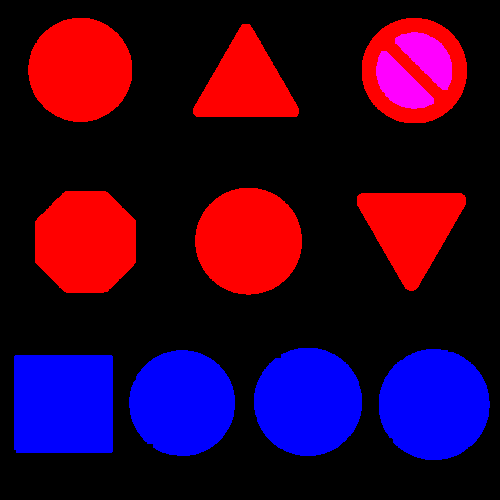
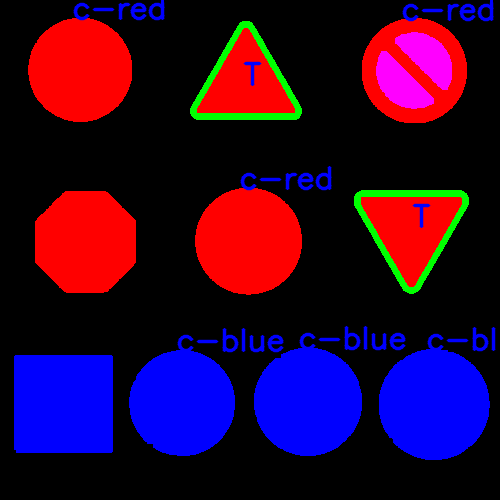
Change circles to poly

diff --git a/project1/src/detector.py b/project1/src/detector.py
@@ -34,10 +34,9 @@ class Detector:
         self.processedImg = temp.copy()
         self.print2(self.processedImg)
 
-    def detectCircles(self, color):
+    def detectHoughCircles(self, color):
         img = self.processedImg
         img = removeAllButOneColor(img,color)
-        print("isolating " + color)
         # self.print2(img)
         gray = cv2.cvtColor(img, cv2.COLOR_BGR2GRAY)
         low=np.array([1])
@@ -65,30 +64,50 @@ class Detector:
             self.detected["c-" + color] = circlesObj
         return circles, gray, centers
 
+    def detectCircles(self, color):
+        img = self.img
+        img = removeAllButOneColor(img,color)
+        gray = cv2.cvtColor(img, cv2.COLOR_BGR2GRAY)
+        ret, thresh = cv2.threshold(gray, 0, 255, 1)
+        contours, h = cv2.findContours(gray, cv2.RETR_EXTERNAL,	cv2.CHAIN_APPROX_SIMPLE)
+        circles = []
+        centers = []
+        for cnt in contours:
+            approx = cv2.approxPolyDP(cnt, 0.01*cv2.arcLength(cnt, True), True)
+            if len(approx) > 8:
+                print(approx[0][0])
+                centers.append((approx[0][0][0],approx[0][0][1]))
+                circles.append([cnt])
+        circlesObj = {
+            "info": circles,
+            "debugImg": gray,
+            "coordText": centers,
+            "text": "c-" + color
+        }
+        # print(trianglesObj)
+        self.detected["c-" + color] = circlesObj
+        return contours, gray, circles
+
+
     def detectTriangles(self, color):
         img = self.img
         img = removeAllButOneColor(img,color)
-        cv2.imshow("White", img)
         gray = cv2.cvtColor(img, cv2.COLOR_BGR2GRAY)
-        cv2.imshow("gray", gray)
-        # ret, thresh = cv2.threshold(gray, 127, 255, 1)
-        #cv2.imshow("thresh", thresh)
+        ret, thresh = cv2.threshold(gray, 0, 255, 1)
         contours, h = cv2.findContours(gray, cv2.RETR_EXTERNAL,	cv2.CHAIN_APPROX_SIMPLE)
         triangles = []
         centers = []
         for cnt in contours:
-            approx = cv2.approxPolyDP(cnt, 0.02*cv2.arcLength(cnt, True), True)
-            print("Shapes: " + str(len(approx)))
+            approx = cv2.approxPolyDP(cnt, 0.04*cv2.arcLength(cnt, True), True)
             if len(approx) == 3:
                 triangle = [(approx[0][0][0],approx[0][0][1]),
                             (approx[1][0][0],approx[1][0][1]),
                             (approx[2][0][0],approx[2][0][1])]
                 center = (int(round((triangle[0][0] + triangle[1][0] + triangle[2][0]) / 3)),
                           int(round((triangle[0][1] + triangle[1][1] + triangle[2][1]) / 3)))
-                if calcArea(triangle) > 0:
+                if calcArea(triangle) > 50:
                     centers.append(center)
-                    triangles.append(triangle)
-                    # triangles.append([cnt])
+                    triangles.append([cnt])
         trianglesObj = {
             "info": triangles,
             "debugImg": gray,

diff --git a/project1/src/printer.py b/project1/src/printer.py
@@ -7,35 +7,32 @@ from pytesseract import Output
 from signDetection import *
 from utils import *
 
-def drawCircles(img, circles):
-    if not(circles is None):
-        for i in circles[0,:]:
-            center = (i[0],i[1])
-            # draw the outer circle
-            cv2.circle(img,center,i[2],(0,255,0),2)
-            # draw the center of the circle
-            cv2.circle(img,center,2,(0,0,255),3)
-    return img
+# def drawCircles(img, circles):
+#     if not(circles is None):
+#         for i in circles[0,:]:
+#             center = (i[0],i[1])
+#             # draw the outer circle
+#             cv2.circle(img,center,i[2],(0,255,0),2)
+#             # draw the center of the circle
+#             cv2.circle(img,center,2,(0,0,255),3)
+#     return img
 
-def drawTriangles(img, triangles):
-    for triangle in triangles:
-        # cv2.drawContours(img, triangle, 0, (0, 255, 0), -1)
-        img = cv2.line(img, triangle[0], triangle[1], (0, 255, 0), 5)
-        img = cv2.line(img, triangle[0], triangle[2], (0, 255, 0), 5)
-        img = cv2.line(img, triangle[1], triangle[2], (0, 255, 0), 5)
-    return img
+# def drawTriangles(img, triangles):
+#     for triangle in triangles:
+#         cv2.drawContours(img, triangle, 0, (0, 255, 0), 6)
+#     return img
 
-def drawRectangles(img, rectangles):
-    for rectangle in rectangles:
-        cv2.drawContours(img, rectangles, 0, (255, 0, 0), -1)
-    return img
+# def drawRectangles(img, rectangles):
+#     for rectangle in rectangles:
+#         cv2.drawContours(img, rectangles, 0, (255, 0, 0), -1)
+#     return img
 
     # Print on top of 'img' all the labels in 'obj'
 def printLabels(img, obj):
     # Constants
     font = cv2.FONT_HERSHEY_SIMPLEX
     fontScale = 1
-    color = (255, 0, 0)
+    color = (0, 255, 0)
     thickness = 2
 
     # Personalized for each shape
@@ -47,12 +44,14 @@ def printLabels(img, obj):
 
 def printShapes(img, obj):
     text = obj["text"]
-    if text == "redC" or text == 'blueC':
-        img = drawCircles(img, obj["info"])
-    elif text == "T":
-        img = drawTriangles(img, obj["info"])
-    elif text == "R":
-        img = drawRectangles(img, obj["info"])
+    for sign in obj["info"]:
+        cv2.drawContours(img, sign, 0, (0, 255, 0), 6)
+    # if text == "redC" or text == 'blueC':
+    #     img = drawCircles(img, obj["info"])
+    # elif text == "T":
+    #     img = drawTriangles(img, obj["info"])
+    # elif text == "R":
+    #     img = drawRectangles(img, obj["info"])
     return img
 
 class Printer:

diff --git a/project1/src/project.py b/project1/src/project.py
@@ -20,10 +20,8 @@ pre = Preprocessor(img)
 img = pre.getProcessed()
 # Detect Point of Interests (POI)
 det = Detector(img)
-# det.detectCircles("red")
-# det.detectCircles("blue")
-# det.isolateEachElementOfColor("red")
-# det.isolateEachElementOfColor("blue")
+det.detectCircles("red")
+det.detectCircles("blue")
 det.detectTriangles("red")
 # det.detectRectangles()
 # det.printProcess()

diff --git a/project1/src/preprocessor.py b/project1/src/preprocessor.py
@@ -20,7 +20,6 @@ class Preprocessor:
         self.isolateEachElementOfColor('blue')
         temp = cv2.bitwise_or(self.blueProcessed, self.redProcessed)
         self.processedImg = temp.copy()
-        self.print2(self.processedImg)
 
     def getProcessed(self):
         return self.processedImg
